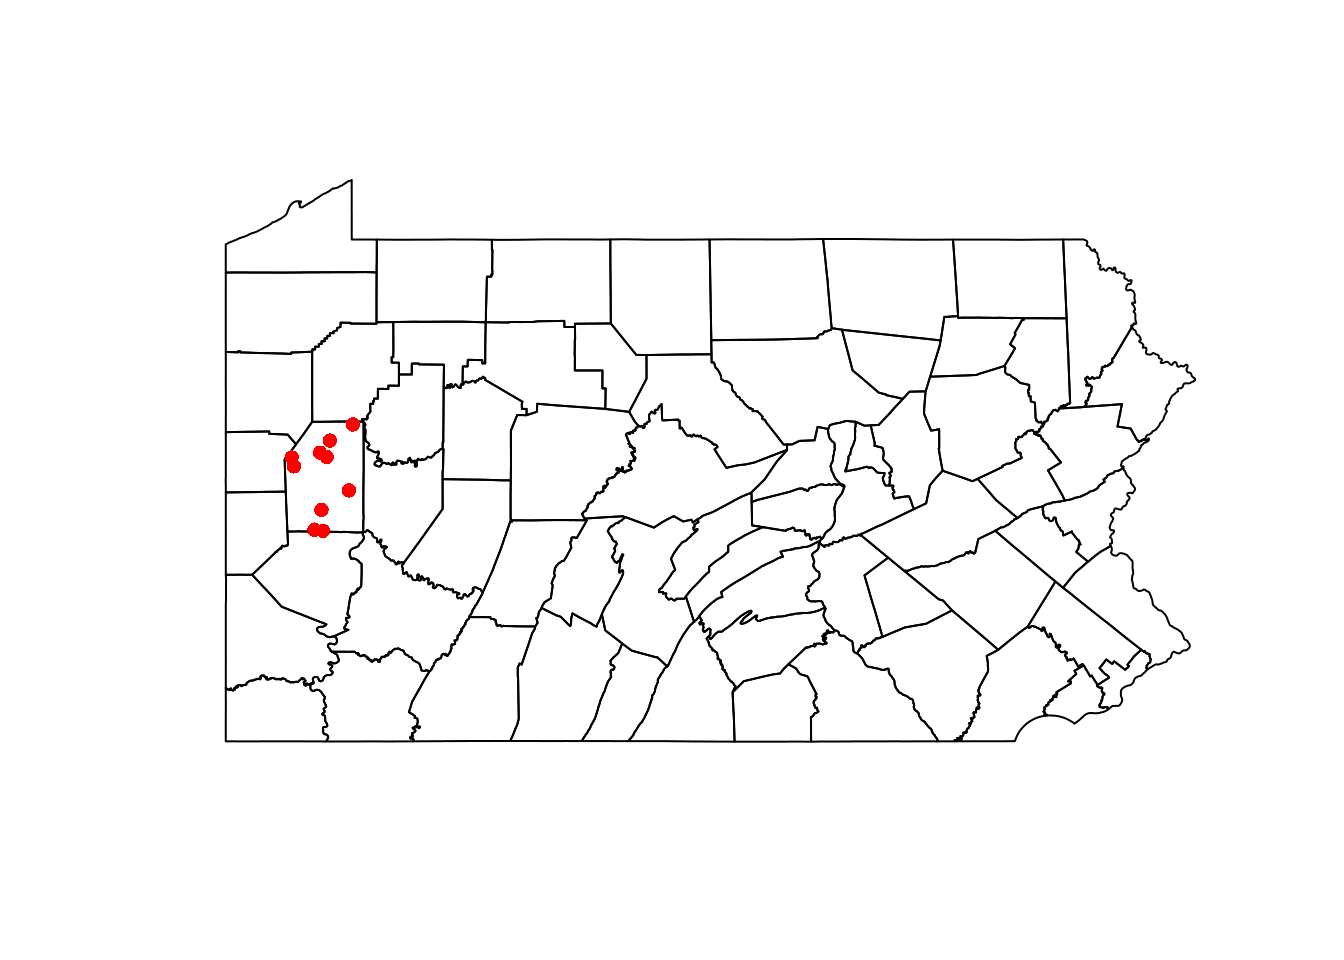
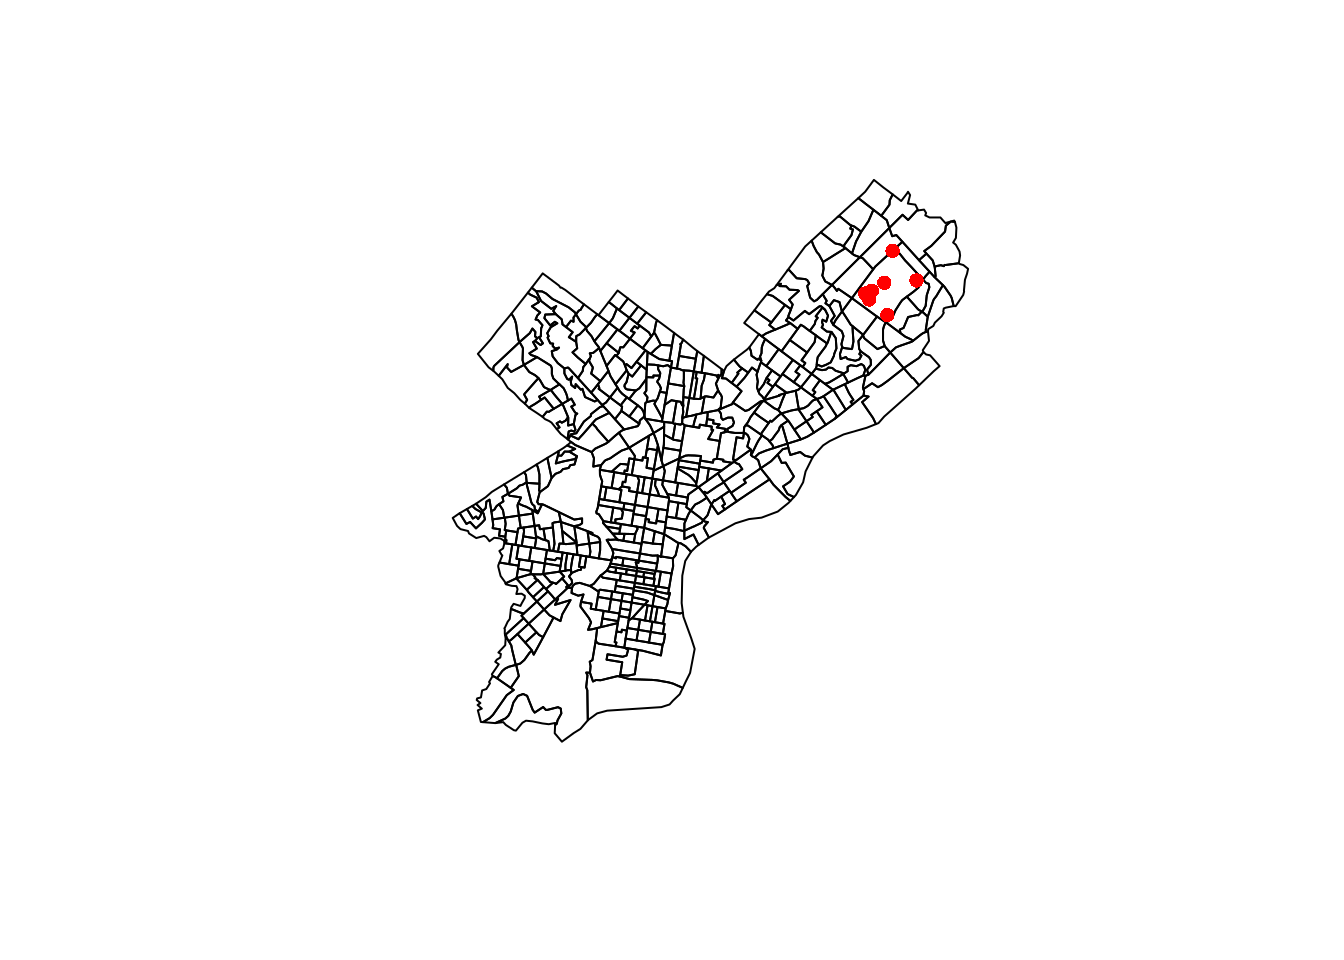
update with census tract

diff --git a/content/post/2020-11-02-mapping-lat-long-to-fips/index.html b/content/post/2020-11-02-mapping-lat-long-to-fips/index.html
@@ -10,7 +10,6 @@ tags:
   - Spatial
 ---
 
-<script src="index_files/header-attrs/header-attrs.js"></script>
 <link href="index_files/anchor-sections/anchor-sections.css" rel="stylesheet" />
 <script src="index_files/anchor-sections/anchor-sections.js"></script>
 
@@ -18,20 +17,19 @@ tags:
 <div id="introduction" class="section level1">
 <h1>Introduction</h1>
 <p>A student in one of my classes had a bunch of latitude/longitude data from the
-US and wanted to map them to FIPS codes, which are codes used to identify
-individual counties in the US.</p>
-<p>Let’s first generate some fake data from Pennsylvania. We use the <code>us_counties</code>
-function from <code>USAboundaries</code> to get
-<a href="https://cran.r-project.org/package=sf"><code>sf</code> shapefiles</a> of the counties.</p>
+US and wanted to map them to a US Census tract and its corresponding code (FIPS
+code).</p>
+<p>We can first download the Census tracts for each state from the <a href="https://www.census.gov/geographies/mapping-files/time-series/geo/carto-boundary-file.html">US Census
+website</a>
+under the “Census Tracts” dropdown menu. Then, after unzipping the file, we can
+read the shape file using <code>st_read</code> from the sf package.</p>
 <pre class="r"><code>library(sf)
 library(dplyr)
-library(tigris)
-library(USAboundaries)
-
-county_maps &lt;- us_counties(resolution = &quot;high&quot;, states = &quot;PA&quot;)
-n &lt;- 1e5
+census_tracts &lt;- st_read(&quot;cb_2018_42_tract_500k.shp&quot;, quiet = TRUE)</code></pre>
+<p>Then, we can generate some fake lat/long data for Pennsylvania.</p>
+<pre class="r"><code>n &lt;- 1e5
 set.seed(7477263)
-county_bbox &lt;- st_bbox(county_maps)
+county_bbox &lt;- st_bbox(census_tracts)
 # randomly sample longitude and latitude from PA&#39;s bounding box
 latlong_dat &lt;- data.frame(id = seq_len(n),
                           x = rnorm(n),
@@ -42,16 +40,19 @@ latlong_dat &lt;- data.frame(id = seq_len(n),
 </div>
 <div id="original-solution" class="section level1">
 <h1>Original Solution</h1>
-<p>The original solution was to use <code>call_geolocator_latlong</code> to get the census
-tract using an online API, and then convert the census tract into county.
-However, the API takes a while to respond, so this solution isn’t scalable
-for thousands of data points.</p>
-<pre class="r"><code>system.time({
-  tigris::call_geolocator_latlon(lat = latlong_dat$Latitude[1],
-                                 lon = latlong_dat$Longitude[1])
+<p>The original solution was to use <code>call_geolocator_latlong</code> to get the block FIPS
+using an online API, and then convert that into Census tract by taking the first
+11 digits. However, the API takes a while to respond, so this solution isn’t
+scalable for thousands of data points.</p>
+<pre class="r"><code>library(tigris)
+system.time({
+  census_block &lt;- tigris::call_geolocator_latlon(lat = latlong_dat$Latitude[1],
+                                                 lon = latlong_dat$Longitude[1])
 })</code></pre>
 <pre><code>##    user  system elapsed 
-##   0.081   0.004  11.486</code></pre>
+##   0.059   0.004   0.602</code></pre>
+<pre class="r"><code>(census_tract &lt;- substr(census_block, start = 1, stop = 11))</code></pre>
+<pre><code>## [1] &quot;42061950500&quot;</code></pre>
 </div>
 <div id="improved-solution" class="section level1">
 <h1>Improved Solution</h1>
@@ -62,51 +63,52 @@ object. Note that if you have NA values for the latitude or longitude, you’ll
 need to filter them out.</p>
 <pre class="r"><code>latlong_sf &lt;- latlong_dat %&gt;%
   filter(!is.na(Latitude), !is.na(Longitude)) %&gt;%
-  st_as_sf(coords = c(&quot;Longitude&quot;, &quot;Latitude&quot;), crs = st_crs(county_maps))</code></pre>
+  st_as_sf(coords = c(&quot;Longitude&quot;, &quot;Latitude&quot;), crs = st_crs(census_tracts))</code></pre>
 <p>Then, we use the <code>st_intersects</code> function to find the counties which intersect
 with the points. This returns a list, where the ith element is the row number of
-<code>county_maps</code> which contains the ith lat/long pair.</p>
+<code>census_tracts</code> which contains the ith lat/long pair.</p>
 <p>We might get a message like:</p>
 <pre><code>although coordinates are longitude/latitude, st_intersects assumes that they are planar</code></pre>
 <p>I believe this can be ignored unless you’re working with data near the polar
 regions.</p>
 <pre class="r"><code>system.time({
-  intersected &lt;- st_intersects(latlong_sf, county_maps)
+  intersected &lt;- st_intersects(latlong_sf, census_tracts)
 })</code></pre>
 <pre><code>##    user  system elapsed 
-##   0.742   0.024   0.766</code></pre>
+##   1.062   0.008   1.070</code></pre>
 <p>We can see that this runs super quickly—it took the same time to process
 all 10K lat/long pairs with <code>st_intersects</code> as it did to process 1 pair with
 <code>call_geolocator_latlon</code>.</p>
-<p>We can then add the FIPS as a column to our latitude/longitude data. We can
-use the intersection to subset the <code>geoid</code> column of county_maps, which
-is the FIPS code. If the intersection was NA, then the FIPS code will be an
-empty string (note FIPS codes are stored as strings because sometimes they have
-a leading zero).</p>
+<p>We can then add the FIPS as a column to our latitude/longitude data. We can use
+the intersection to subset the <code>GEOID</code> column of <code>census_tracts</code>, which is the
+FIPS code. If the intersection was NA, then the FIPS code will be an empty
+string (note FIPS codes are stored as strings because sometimes they have a
+leading zero).</p>
 <pre class="r"><code>latlong_final &lt;- latlong_sf %&gt;%
   mutate(intersection = as.integer(intersected),
          fips = if_else(is.na(intersection), &quot;&quot;,
-                        county_maps$geoid[intersection]))
+                        census_tracts$GEOID[intersection]))
 head(latlong_final)</code></pre>
 <pre><code>## Simple feature collection with 6 features and 4 fields
 ## geometry type:  POINT
 ## dimension:      XY
 ## bbox:           xmin: -80.48101 ymin: 39.73635 xmax: -75.50156 ymax: 41.99468
-## geographic CRS: WGS 84
-##   id          x                   geometry intersection  fips
-## 1  1 -2.1932479 POINT (-77.89334 40.52967)            5 42061
-## 2  2 -2.0290433  POINT (-78.81608 41.8673)           44 42083
-## 3  3  0.3157029 POINT (-75.50156 39.73635)           NA      
-## 4  4 -1.0549416 POINT (-80.48101 40.59035)           38 42007
-## 5  5  0.9947392 POINT (-78.55342 41.54438)           41 42047
-## 6  6  1.2926765 POINT (-79.69076 41.99468)           17 42049</code></pre>
-<p>To check our solution, we can draw a plot of all the lat/long pairs from a
-specific PA county.</p>
-<pre class="r"><code>county_maps %&gt;%
+## geographic CRS: NAD83
+##   id          x                   geometry intersection        fips
+## 1  1 -2.1932479 POINT (-77.89334 40.52967)         2495 42061950500
+## 2  2 -2.0290433  POINT (-78.81608 41.8673)         2895 42083421000
+## 3  3  0.3157029 POINT (-75.50156 39.73635)           NA            
+## 4  4 -1.0549416 POINT (-80.48101 40.59035)         3154 42007602900
+## 5  5  0.9947392 POINT (-78.55342 41.54438)         1774 42047950100
+## 6  6  1.2926765 POINT (-79.69076 41.99468)         2609 42049011802</code></pre>
+<p>To check our solution, we can plot all the Census tracts in Philadelphia (county
+code 42101) and display the points which showed up in a particular Census tract.</p>
+<pre class="r"><code>census_tracts %&gt;%
+  filter(startsWith(GEOID, &quot;42101&quot;)) %&gt;%
   select(geometry) %&gt;%
   plot()
 latlong_final %&gt;%
-  filter(fips == &quot;42019&quot;) %&gt;%
+  filter(fips == &quot;42101980300&quot;) %&gt;%
   select(geometry) %&gt;%
   slice_sample(n = 10) %&gt;%
   plot(add = TRUE, reset = FALSE, pch = 16, col = &quot;red&quot;)</code></pre>
